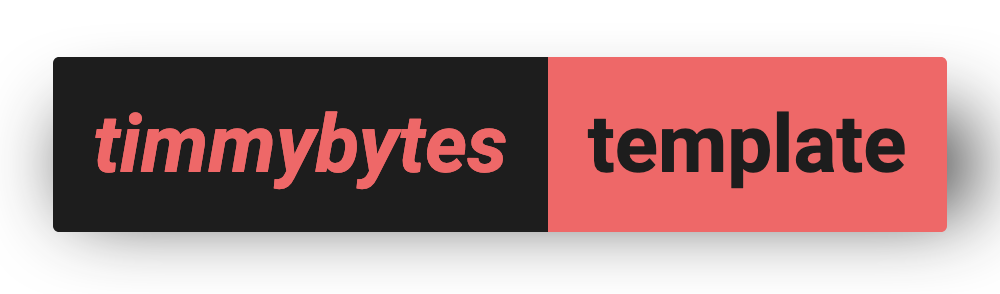
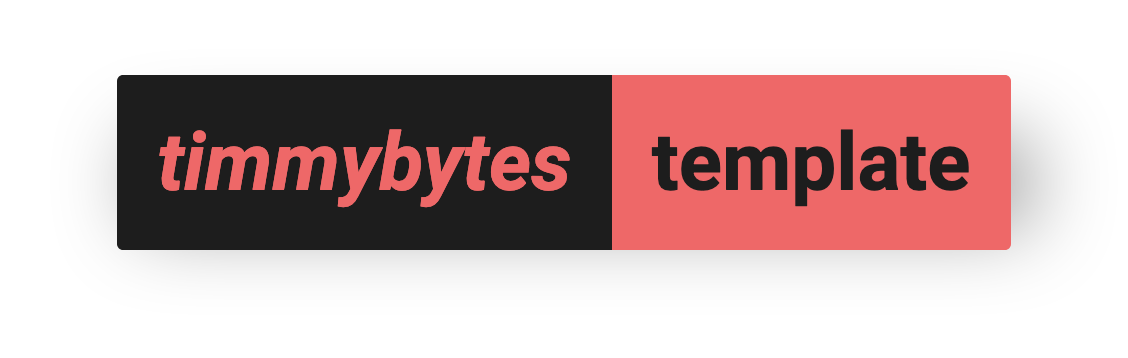
Update header image, App.jsx box-shadow

diff --git a/template/src/components/App.jsx b/template/src/components/App.jsx
@@ -11,7 +11,7 @@ const App = () => {
           fontSize: '20px',
           marginTop: '60px',
         }}>
-        <h1 style={{ boxShadow: '10px 10px 40px #1d1d1d' }}>
+        <h1 style={{ boxShadow: '10px 10px 40px #999999' }}>
           <span
             style={{
               backgroundColor: '#1d1d1d',
